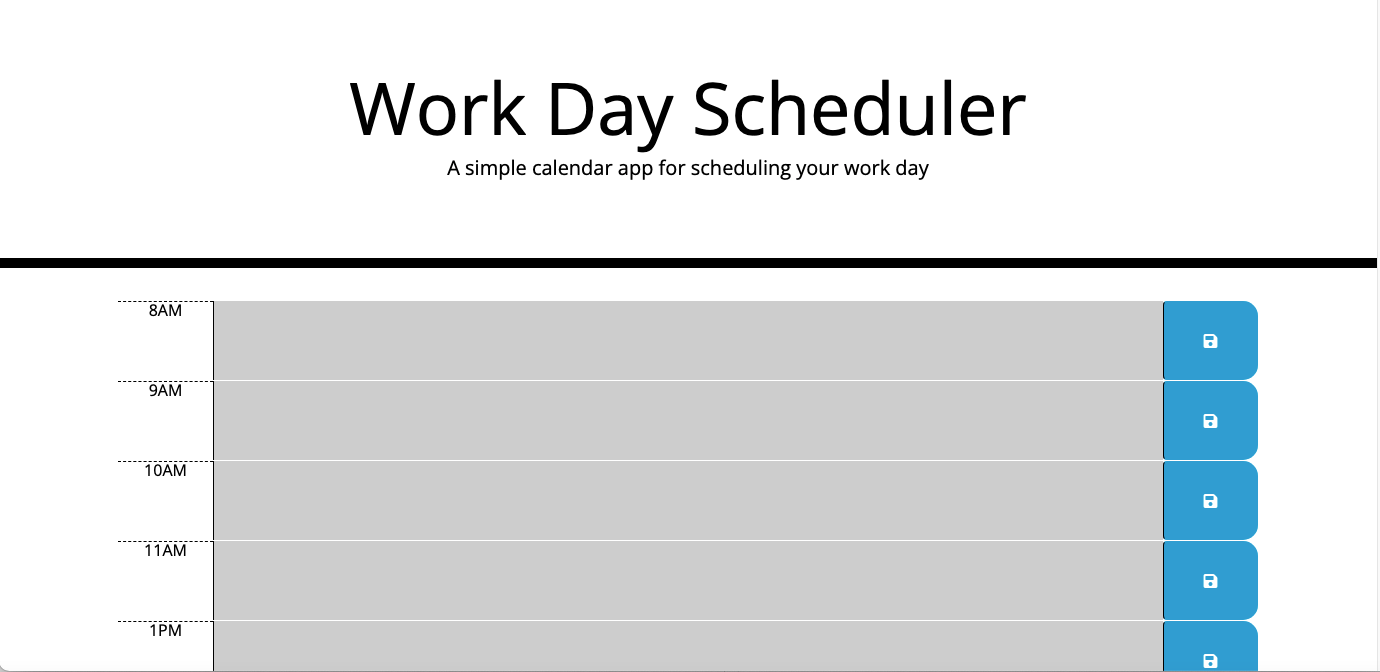
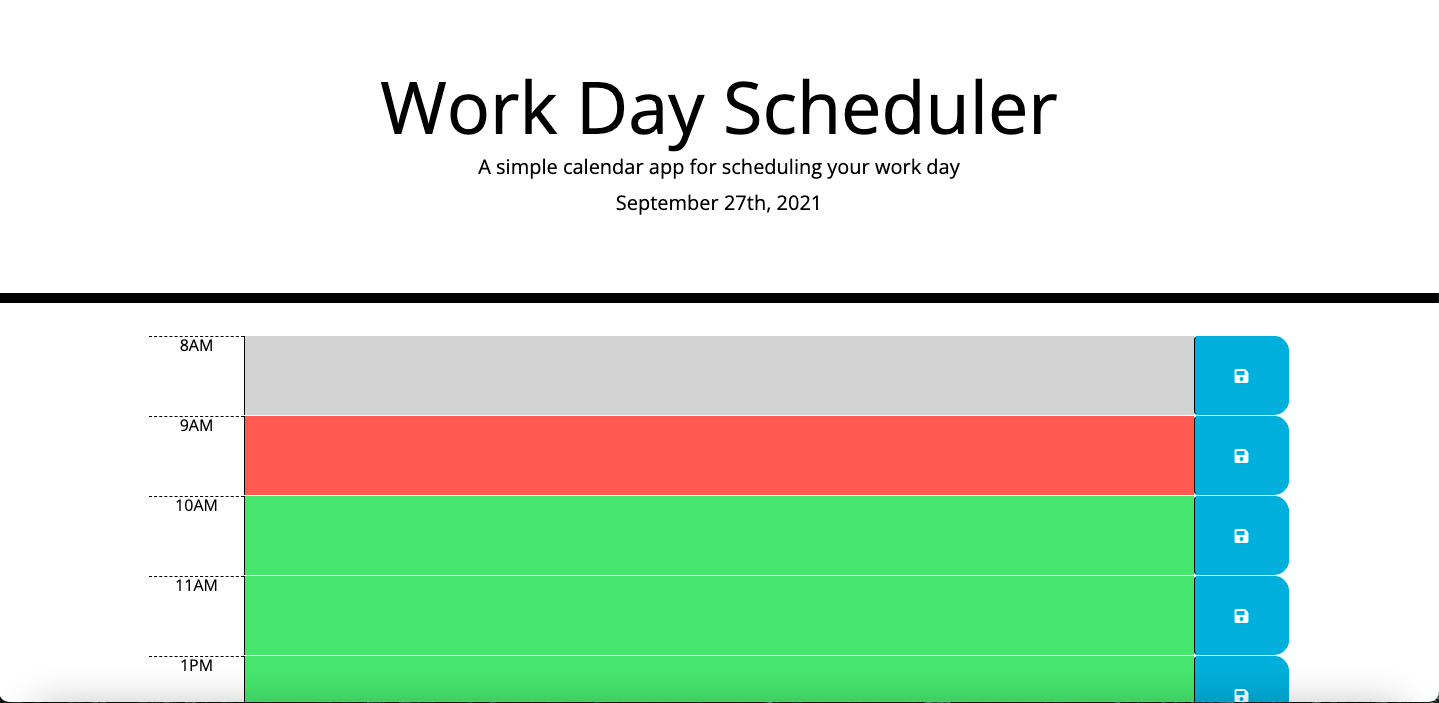
Updated README.md with new pictures reflecting current date addition.

diff --git a/README.md b/README.md
@@ -51,17 +51,13 @@ The following animation shows the web application's appearance and functionality
 
 Please see below for examples of this webpage, which demonstrate its functionality:
 
-### Initial Page View: Outside Business Hours
+### Initial Page: Business Hours Color Code Functionality View
 
 ![1](assets/images/1.png)
 
-###  Color Code Functionality View: Inside Business Hours
-
-![2](assets/images/2.png)
-
 ###  Saved Data and Saved Local Storage View
 
-![3](assets/images/3.png)
+![2](assets/images/2.png)
 
 
 ## Credits
